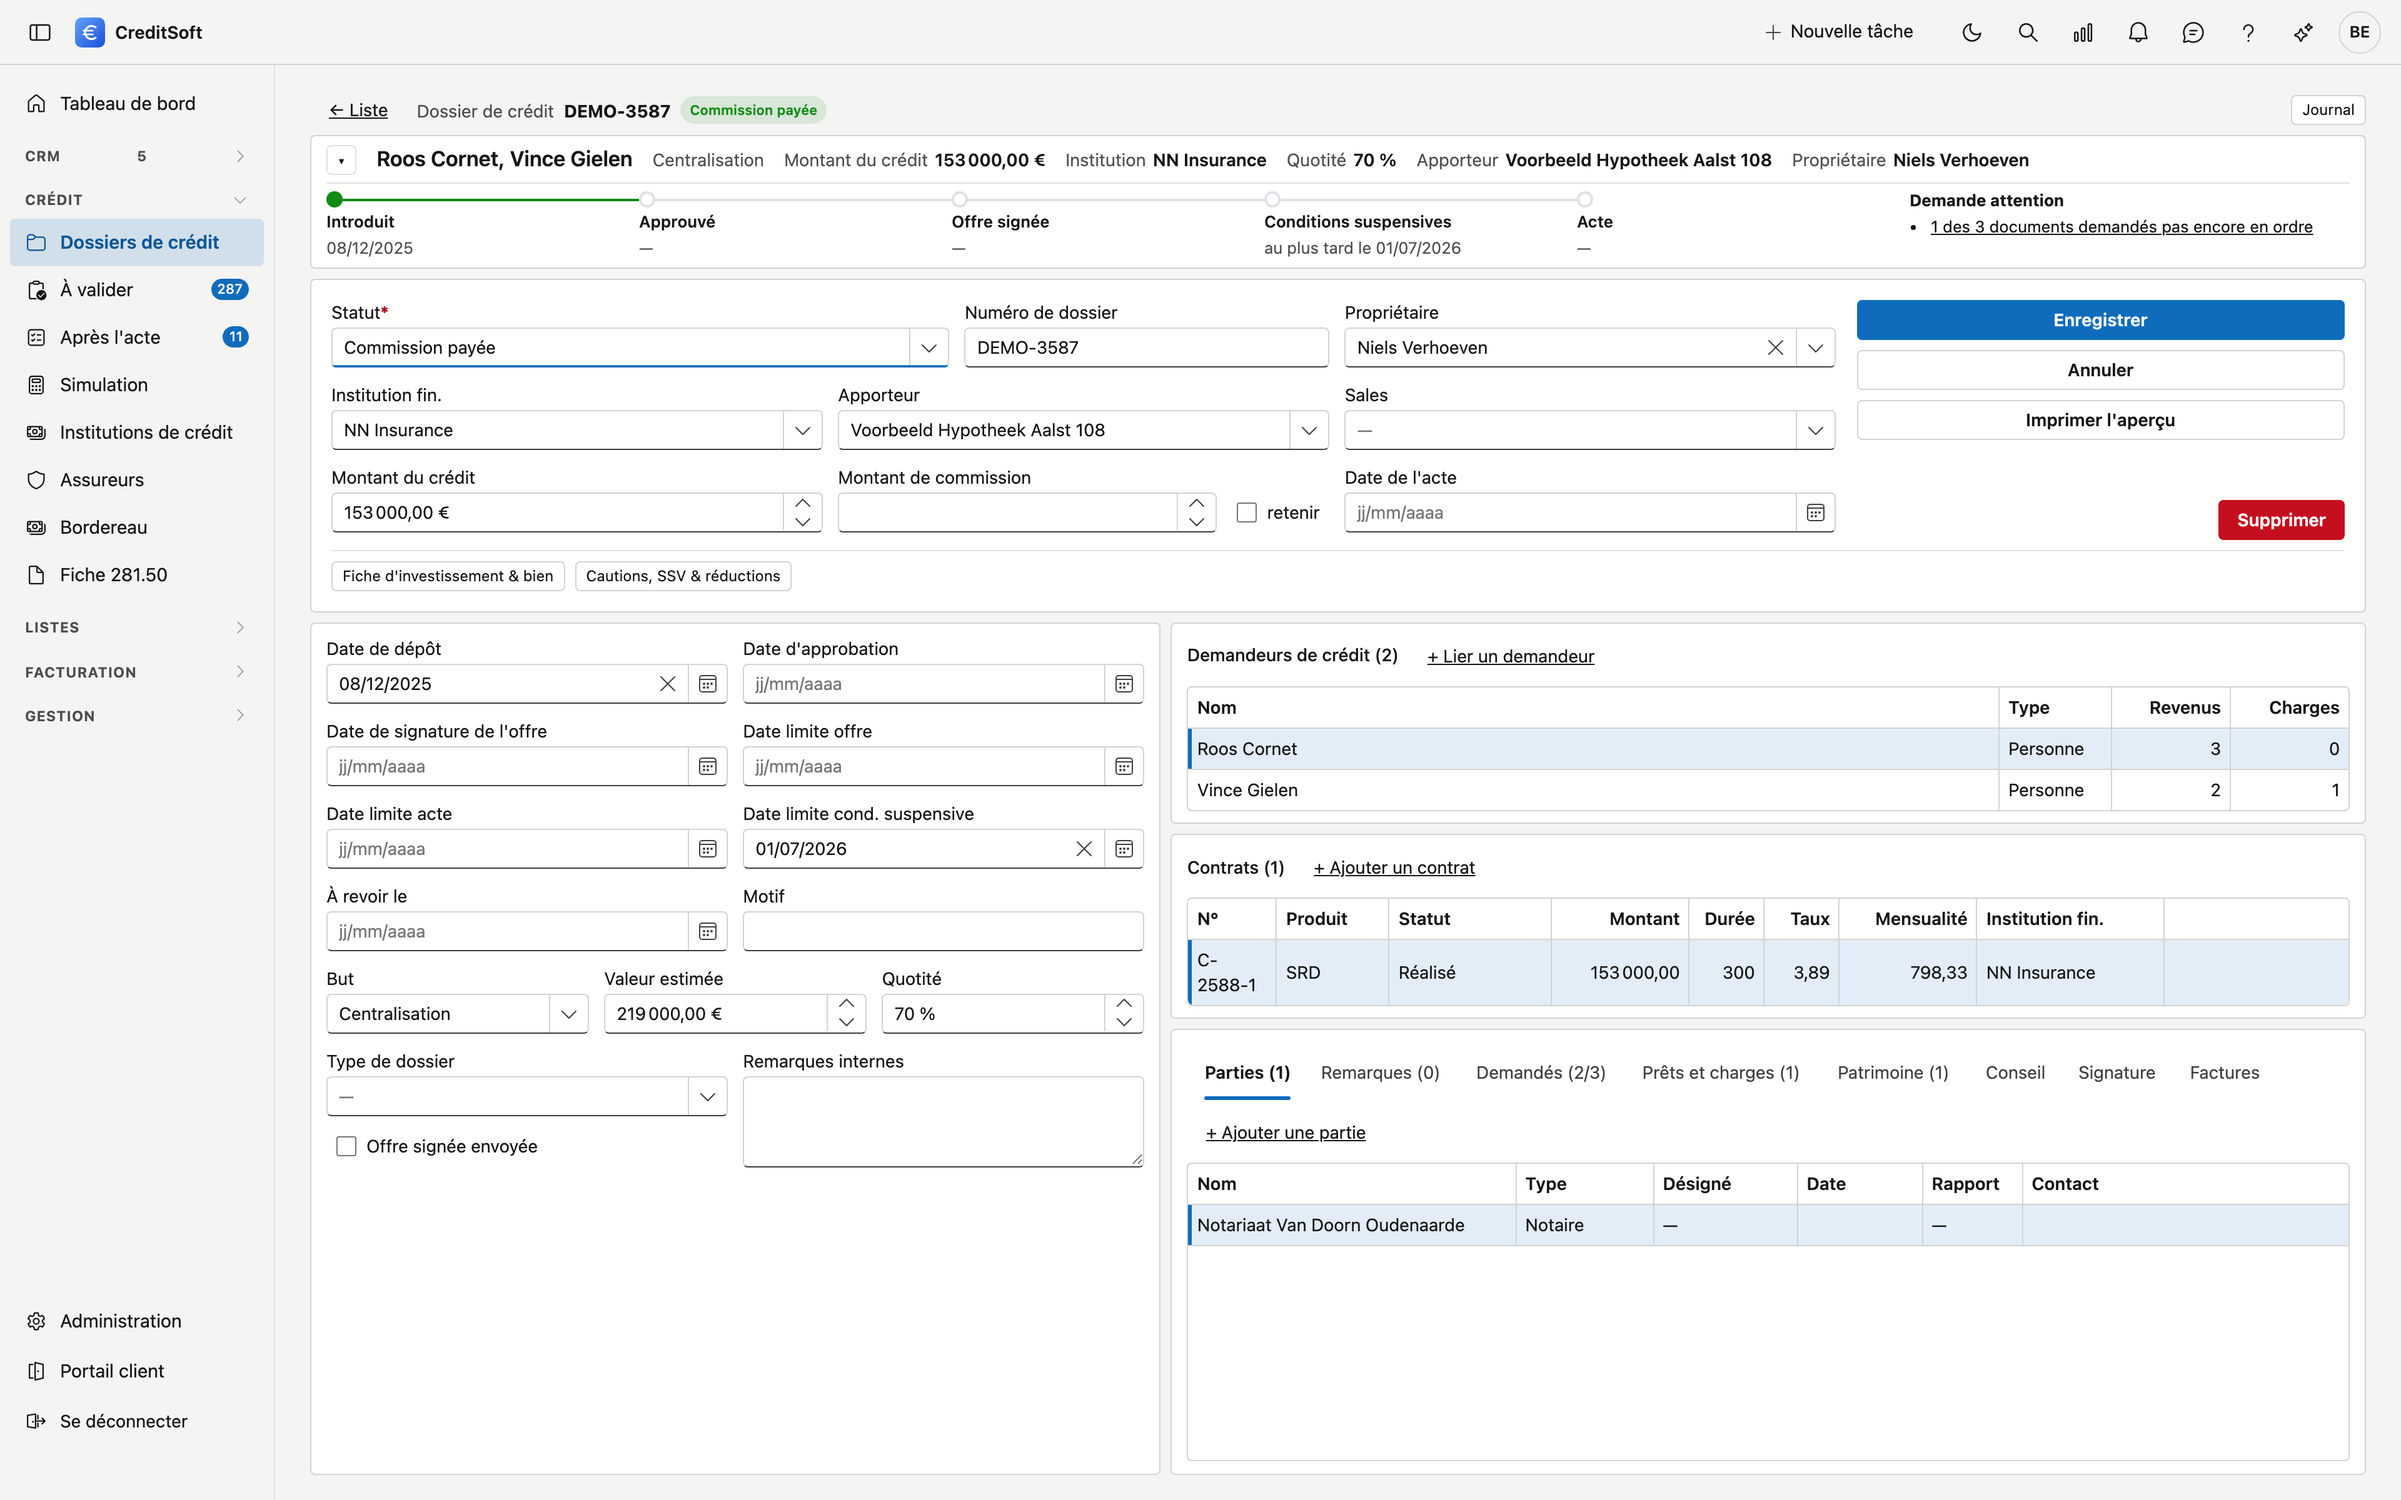
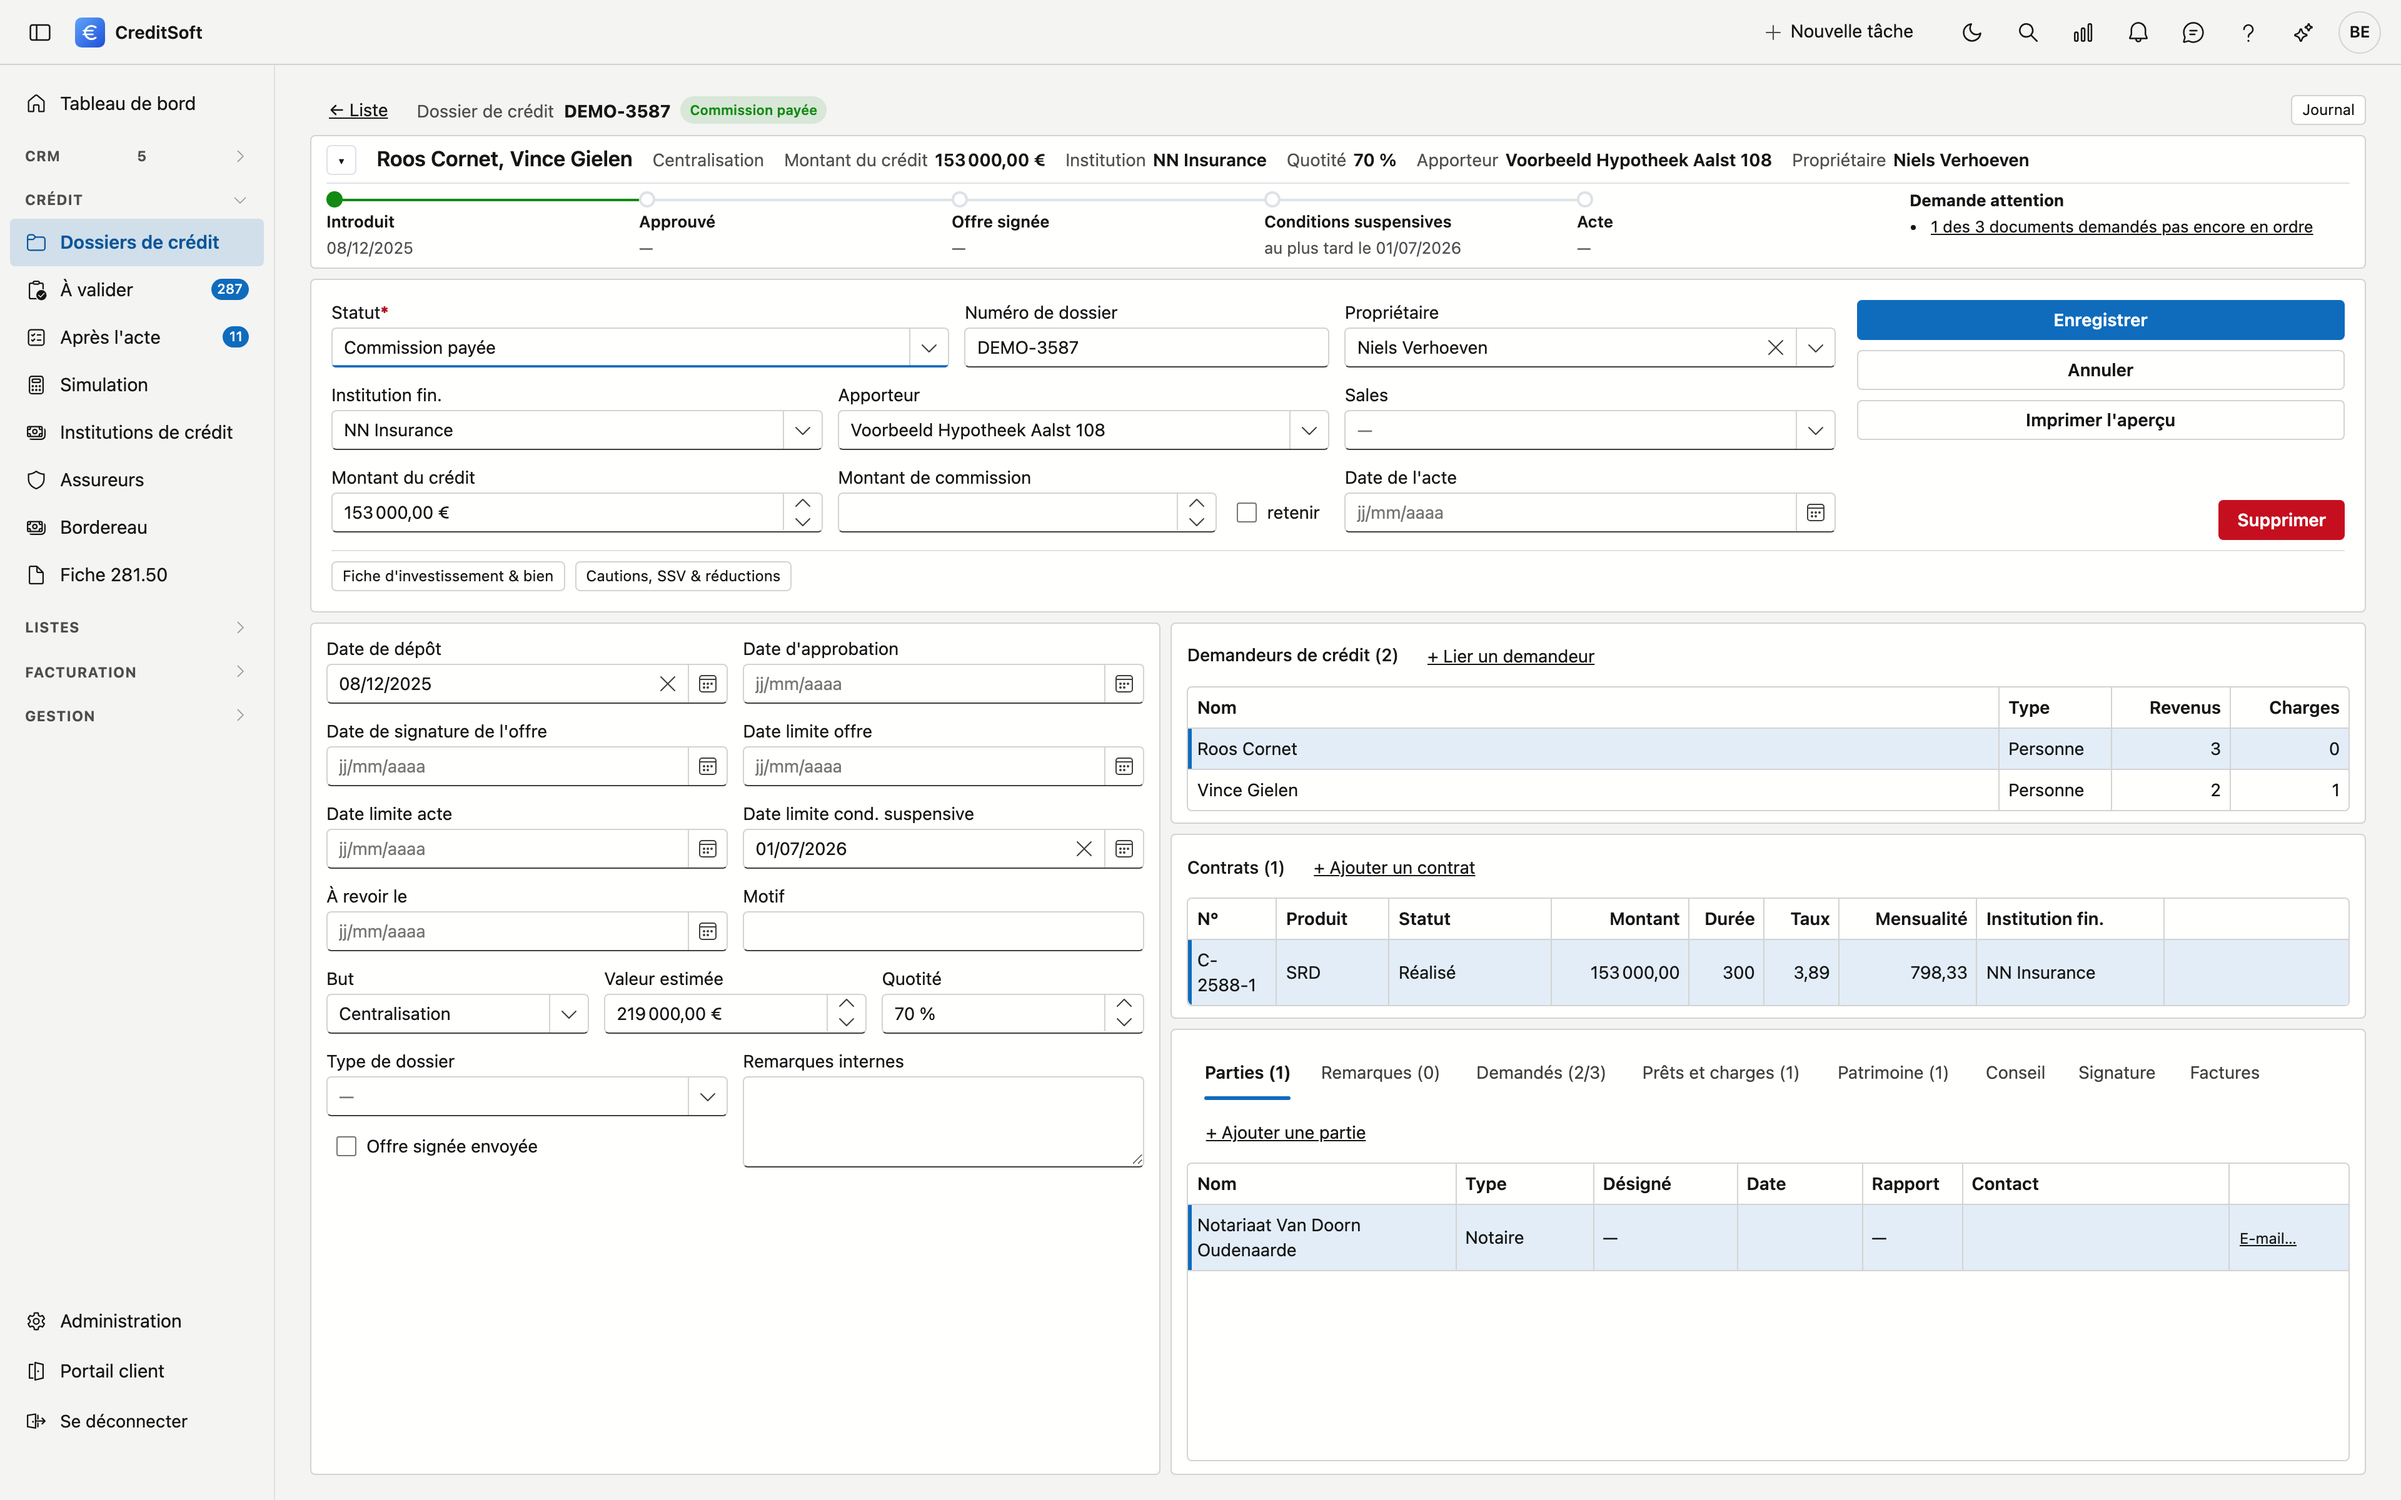
Kredietdossiers, Partijen: Mailen… op een partij (NL, FR) + fichebeeld hernomen, CreditSoft 1.227.0

Changed region(s): [[0.5, 0.7812, 1.0, 0.875]]

diff --git a/docs/credit-management/credit-files.fr.md b/docs/credit-management/credit-files.fr.md
@@ -450,6 +450,8 @@ Un moment part au maximum une fois par contrat ou dossier. Vous retrouvez l'e-ma
 
 Les professionnels concernés — agence immobilière, notaire, expert ou comptable. Pour chaque partie, vous suivez si elle est **désignée** et si le **rapport a été reçu**, avec les dates et coordonnées correspondantes.
 
+Avec **E-mail…** sur la ligne d'une partie, vous lui écrivez directement. La fenêtre d'envoi complète l'adresse : celle de la personne de contact sur la partie, sinon celle de la fiche du notaire, de l'expert ou de l'agence immobilière. L'e-mail est rédigé dans la langue de ce professionnel, avec une formule d'appel neutre. Si la partie n'a d'adresse e-mail nulle part, *À* reste vide et la fenêtre explique pourquoi : vous tapez alors l'adresse vous-même, ou vous la complétez sur la partie. L'e-mail figure ensuite dans le **courrier** du dossier.
+
 ### Garants, ASRD & réductions
 
 Derrière le bouton **Garants, ASRD & réductions…**, trois listes sont réunies : les garants et prêteurs, les assurances solde restant dû (avec l'assureur, le pourcentage de capital assuré, le volet fiscal et fumeur) et les réductions accordées.

diff --git a/docs/credit-management/credit-files.md b/docs/credit-management/credit-files.md
@@ -449,6 +449,8 @@ Een moment vertrekt hoogstens één keer per contract of dossier. U vindt de mai
 
 De betrokken professionals — immokantoor, notaris, schatter of accountant. Per partij houdt u bij of ze **aangesteld** is en of het **verslag ontvangen** is, met de bijhorende datums en contactgegevens.
 
+Met **Mailen…** op de rij van een partij schrijft u haar meteen een mail. Het mailvenster vult het adres in: dat van de contactpersoon bij de partij, anders dat op de fiche van de notaris, de schatter of het immokantoor. De mail staat in de taal van die professional, met een neutrale aanhef. Heeft de partij nergens een mailadres, dan blijft *Aan* leeg en zegt het venster waarom: u typt het adres dan zelf, of u vult het in bij de partij. De mail staat daarna bij het **mailverkeer** van het dossier.
+
 ### Borgen, SSV & reducties
 
 Achter de knop **Borgen, SSV & reducties…** vindt u drie lijsten bij elkaar: borgen en kredietgevers, de schuldsaldoverzekeringen (met verzekeraar, verzekerd percentage, fiscaal en roker) en de toegekende reducties.
